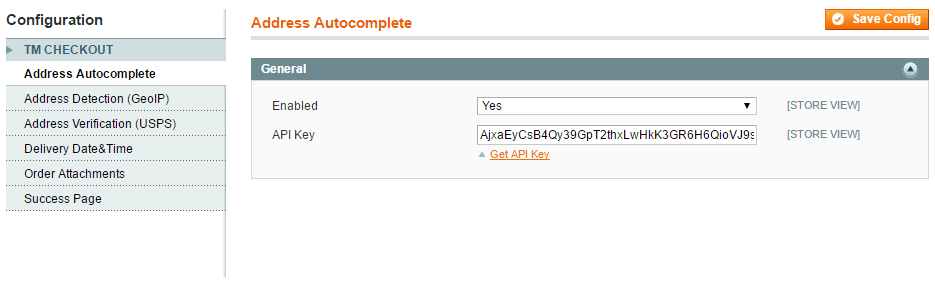
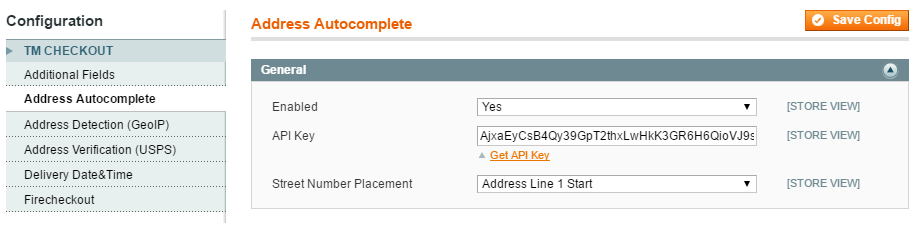
Updated confoguration section

diff --git a/m1/extensions/address-autocomplete/configuration.md b/m1/extensions/address-autocomplete/configuration.md
@@ -7,14 +7,17 @@ category: Address Autocomplete
 
 # Configuration
 
-There are two options avaialble:
-
-- Enabled
-- Api Key
-
-You may set these options at global or store view level depending on your needs:
+There are three options available:
 
 ![Address Autocomplete configuration options](/images/m1/extensions/address-autocomplete/configuration.png)
+
+Option | Description
+-------|------------
+Enabled | Disable or enable module functionality
+Api Key | Google Maps Api Key. [Get API Key](../get-api-key/)
+Street Number Placement | Ability to place street number at the start/end of **Street Line 1**, or place it direclty to the **Street Line 2**
+
+You may set these options at global or store view level depending on your needs.
 
 #### Next Up
 
